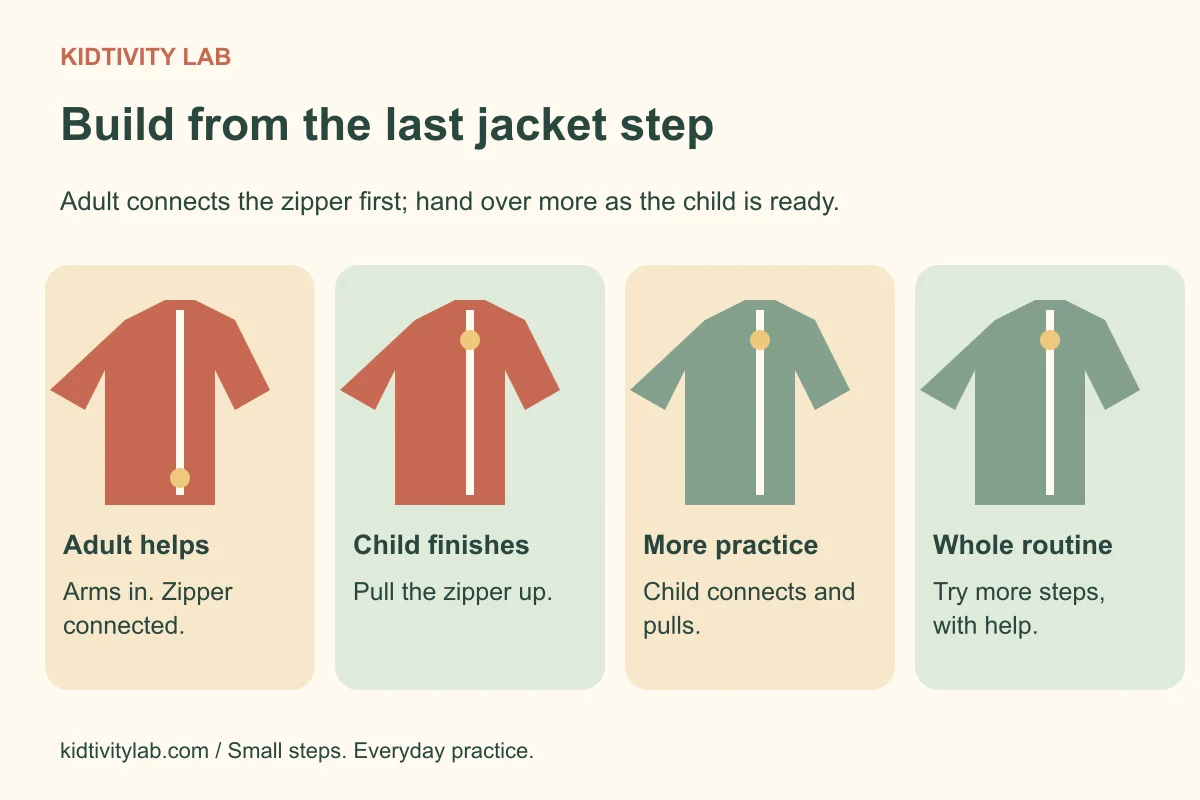
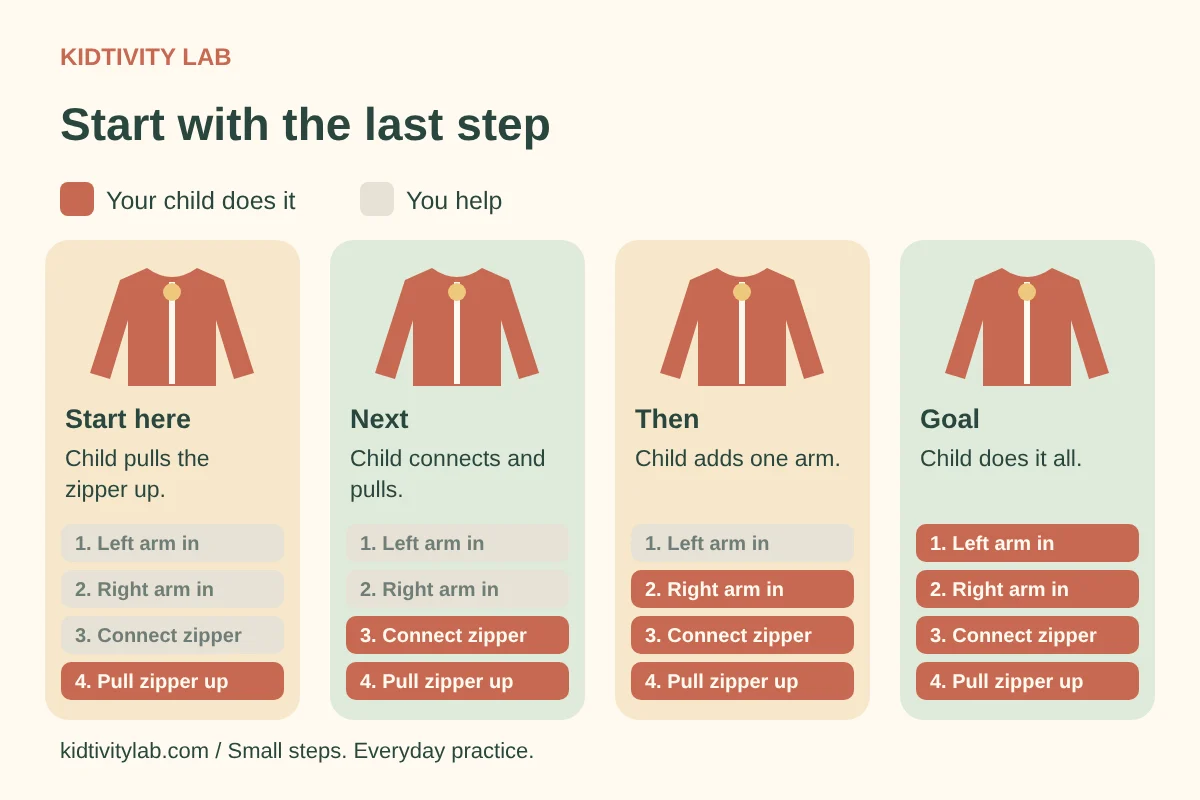
Blog: clearer jacket backward-chaining diagram in the adaptive skills post
Claude-Session: https://claude.ai/code/session_01Cvc3dbpmNqt72cUgP8F1V4

diff --git a/src/content/blog/preschool-adaptive-skills-checklist.md b/src/content/blog/preschool-adaptive-skills-checklist.md
@@ -98,7 +98,7 @@ For a routine with several steps, do the early parts and let your child finish s
 
 Once that feels familiar, hand over an earlier part. This approach is often called backward chaining, but you can think of it as building from a successful ending. Say, “I'll start it, and you pull,” rather than asking for the whole job at once.
 
-![Four jacket diagrams show how adults can hand over dressing steps](/images/blog/preschool-adaptive-skills-checklist/adaptive-skills-jacket-steps.webp)
+![Four cards show a child taking over jacket steps, starting with pulling up the zipper](/images/blog/preschool-adaptive-skills-checklist/adaptive-skills-jacket-steps.webp)
 
 ### Put the routine where your child can see it
 
